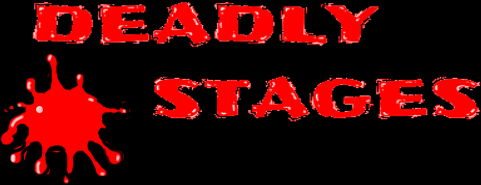
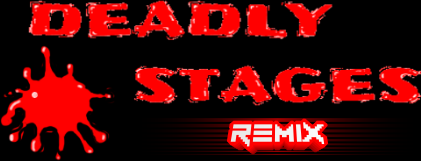
"Remix" branding

diff --git a/src/Screen/MainMenu/MainMenuScreen.cpp b/src/Screen/MainMenu/MainMenuScreen.cpp
@@ -13,8 +13,8 @@ MainMenuScreen::MainMenuScreen() : Screen::Screen()
 {
     titleScreenImageDrawable = new ImageDrawable("title_screen.png");
     drawables.push_back(titleScreenImageDrawable);
-    demoLabelTextDrawable = new TextDrawable("DEMO");
-    drawables.push_back(demoLabelTextDrawable);
+    versionLabelTextDrawable = new TextDrawable(Constants::VERSION);
+    drawables.push_back(versionLabelTextDrawable);
     copyrightLabelTextDrawable = new TextDrawable("© 2015-2024 ShadowzGames");
     drawables.push_back(copyrightLabelTextDrawable);
     mainMenuDrawable = new MenuDrawable();
@@ -97,12 +97,12 @@ void MainMenuScreen::layoutPass()
         int y = titleScreenBottomY;
         mainMenuDrawable->layout(x, y, width, height);
     }
-    { // Demo Label
+    { // Version Label
         int height = USCALE(Game::height * 0.04);
-        int width = height * demoLabelTextDrawable->getAspectRatio();
+        int width = height * versionLabelTextDrawable->getAspectRatio();
         int x = Constants::WINDOW_PADDING_PX;
         int y = Game::height - height - Constants::WINDOW_PADDING_PX;
-        demoLabelTextDrawable->layout(x, y, width, height);
+        versionLabelTextDrawable->layout(x, y, width, height);
     }
     { // Copyright Label
         int height = USCALE(Game::height * 0.04);

diff --git a/src/Screen/Credits/CreditsScreen.hpp b/src/Screen/Credits/CreditsScreen.hpp
@@ -25,9 +25,9 @@ private:
 
     std::vector<CreditDrawable> drawables{};
     const std::vector<Credit> credits{
-        {"Madalin-Iulian Popa", "XtremePrime", "2015 SFML Version Programmer"},
+        {"Madalin-Iulian Popa", "XtremePrime", "2015 Original Version Programmer"},
         {"Andrei-Sabin Popescu", "Popica23", "Graphics Artwork"},
-        {"Radu Salagean", "", "2024 SDL Version Programmer"}
+        {"Radu Salagean", "", "2024 Remix Version Programmer"}
     };
     const std::string footerText = "Thanks for playing!";
 

diff --git a/src/Screen/MainMenu/MainMenuScreen.hpp b/src/Screen/MainMenu/MainMenuScreen.hpp
@@ -16,7 +16,7 @@ private:
     
     #pragma region Drawables
     ImageDrawable* titleScreenImageDrawable = nullptr;
-    TextDrawable* demoLabelTextDrawable = nullptr;
+    TextDrawable* versionLabelTextDrawable = nullptr;
     TextDrawable* copyrightLabelTextDrawable = nullptr;
     MenuDrawable* mainMenuDrawable = nullptr;
     #pragma endregion

diff --git a/src/Game.cpp b/src/Game.cpp
@@ -7,7 +7,7 @@
 #include "Core/PrimitiveShapeHelper.hpp"
 #include "Core/Constants.hpp"
 
-#define GAME_NAME "DeadlyStagesDemo"
+#define GAME_NAME "Deadly Stages Remix"
 #define WIDTH 480
 #define HEIGHT 272
 

diff --git a/src/Core/Constants.hpp b/src/Core/Constants.hpp
@@ -3,6 +3,7 @@
 
 namespace Constants
 {
+    const std::string VERSION = "1.0.0-dev";
     const int WINDOW_PADDING_PX = 16;
     const float UI_SCALE = 0.8f;
     const float GAMEPLAY_SCALE = 1.0f;

diff --git a/README.md b/README.md
@@ -1,5 +1,32 @@
-# deadly-stages-sdl
-A multi-platform SDL reimplementation of the Deadly Stages Demo
+# Deadly Stages Remix
+A multi-platform SDL reimplementation of the original 2015 Deadly Stages Demo from @XtremePrime and @popica23
+
+## New features
+
+General:
+    - Multi-platform (Linux, Windows, macOS, Sony PSP)
+    - Controller support
+	- Game Pause state
+	- The game viewport adapts to any size (4:3 or wider aspect ratio highly recommended)
+	- Separate scaling options for both Gameplay and UI
+	- Hud improvements (new layout, more stats displayed)
+
+Behavior:
+	- Improved collision handling
+	- Player has stamina
+	- Player can sprint (stamina-dependent)
+	- Player can jump and crush enemies (stamina-dependent)
+	- Enemies slow down as they get hurt
+	- Enemy bounty is raised as you complete waves
+	- More realistic weapon behavior
+		- Ammo is split into mags
+		- Reload mechanism
+		- Each shot requires a re-press of the "fire" action for semi-automatic weapons
+	- Player starts receiving damage from an enemy only after being in continuous contact for 300ms
+
+- New visual effects: 
+	- Shadows
+	- Landing from a jump will shake the camera
 
 ## PSP
 - Dev environmnent setup on Ubuntu Linux:
@@ -23,5 +50,5 @@ A multi-platform SDL reimplementation of the Deadly Stages Demo
     - PSP: Open the PSPLink and connect to PC via USB cable
     - PC: Go to the directory where the build is located and run
         ```
-        pspsh -e ./DeadlyStagesDemo.prx
+        pspsh -e ./DeadlyStagesRemix.prx
         ```
